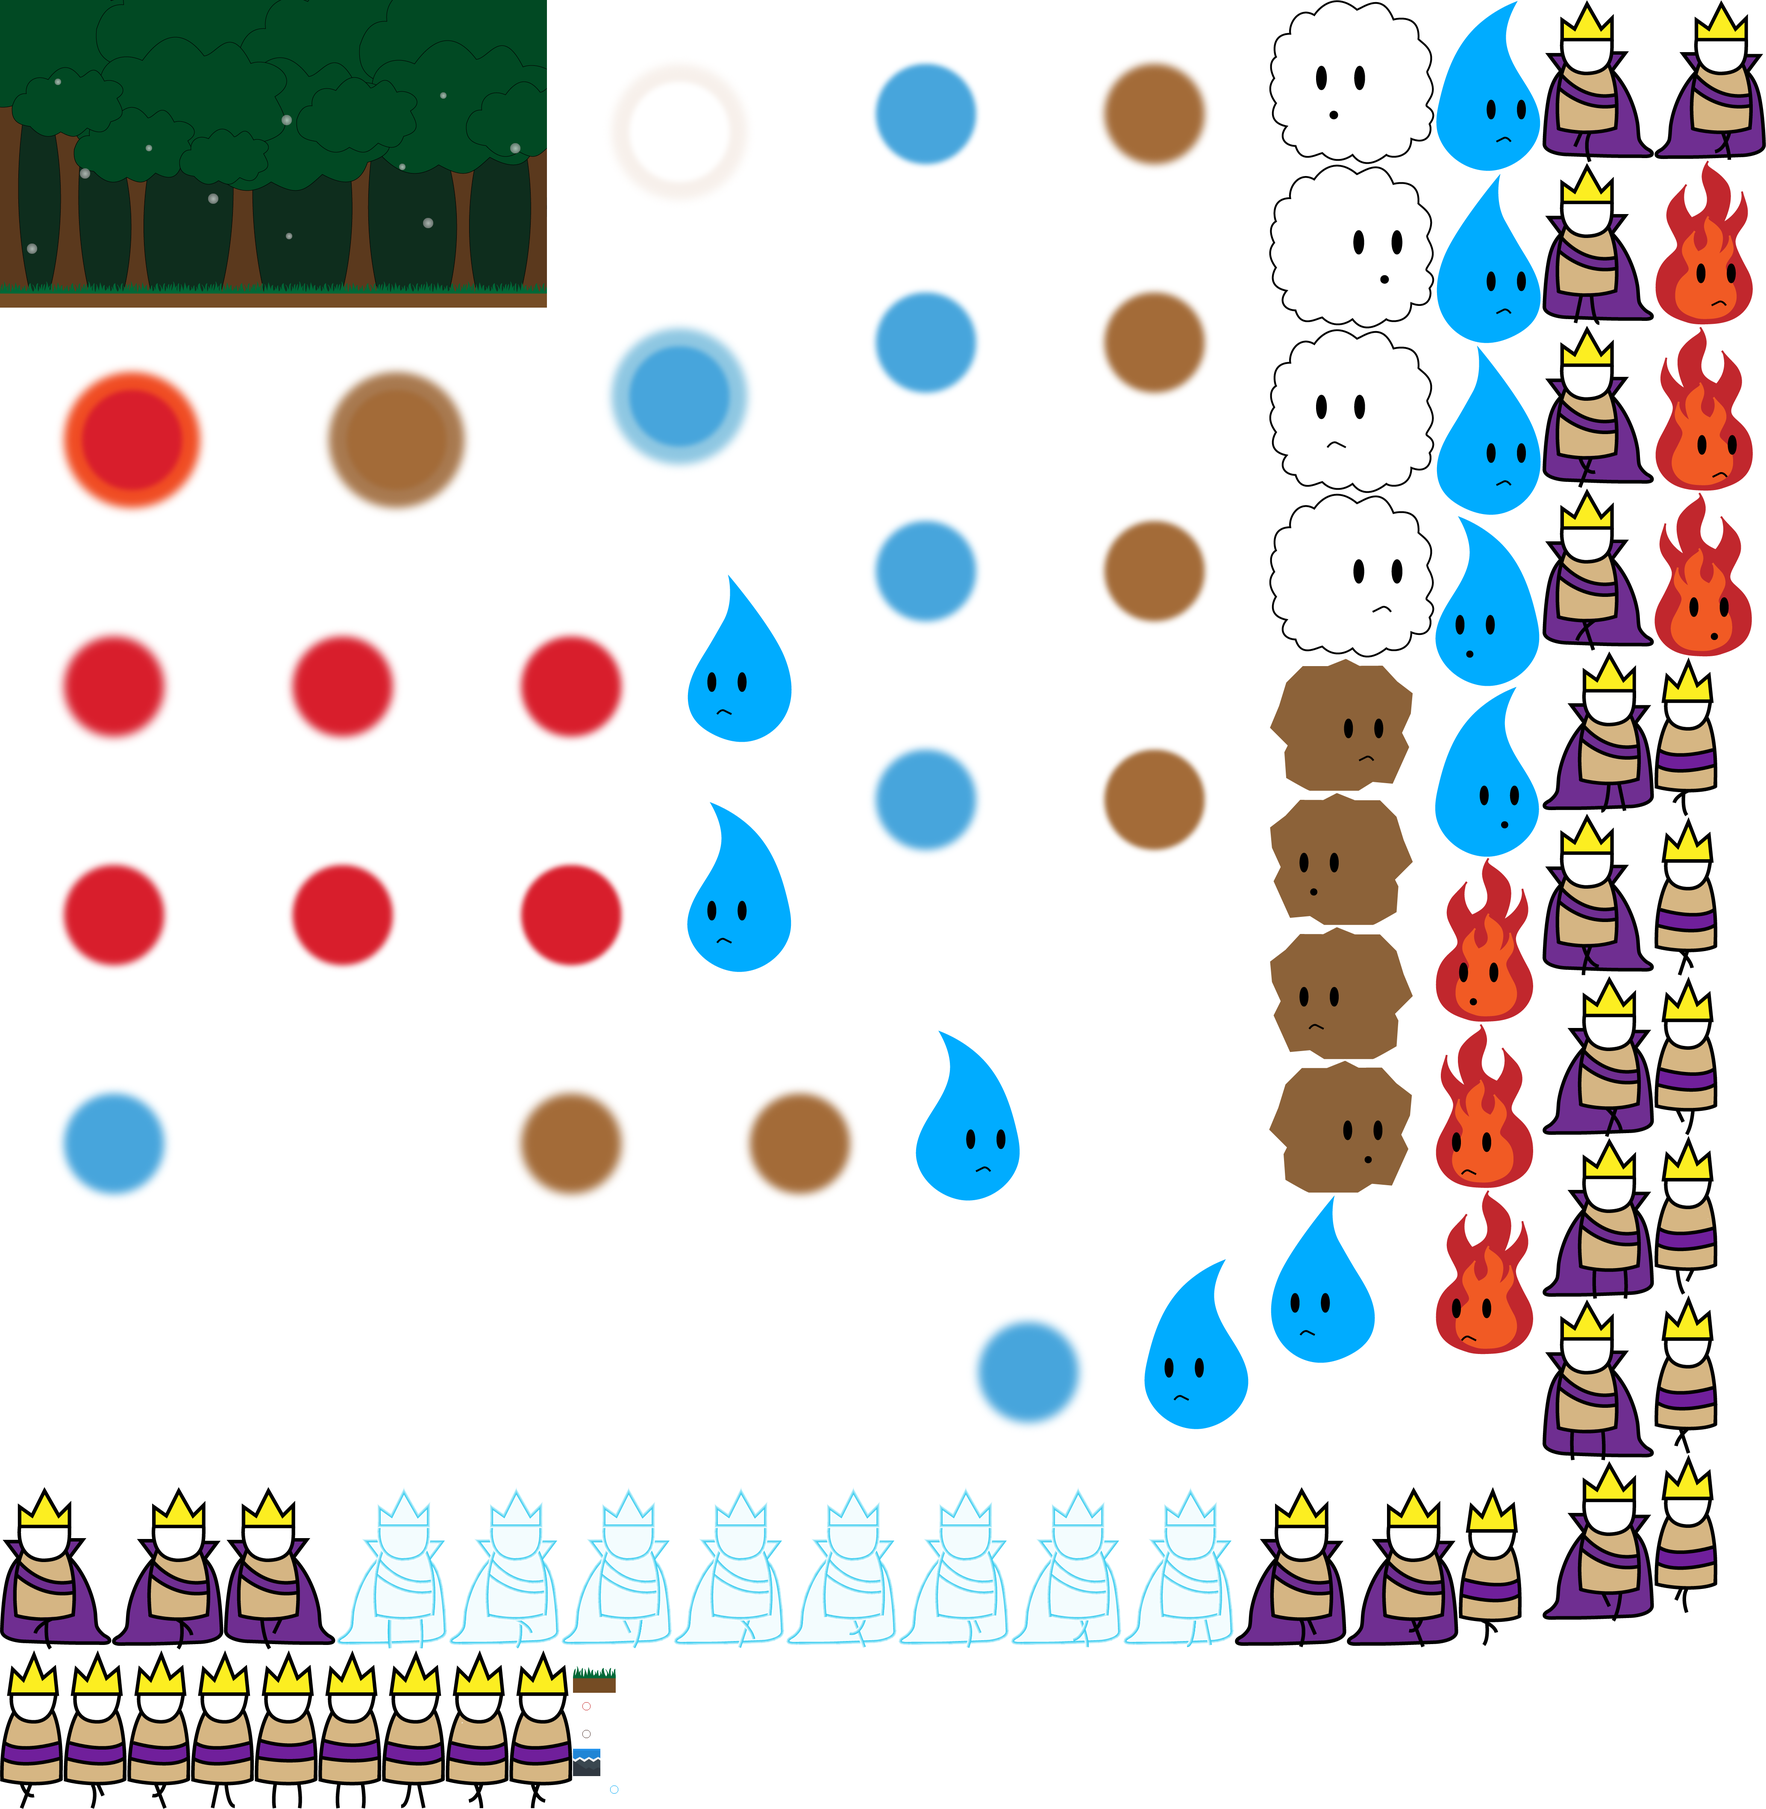
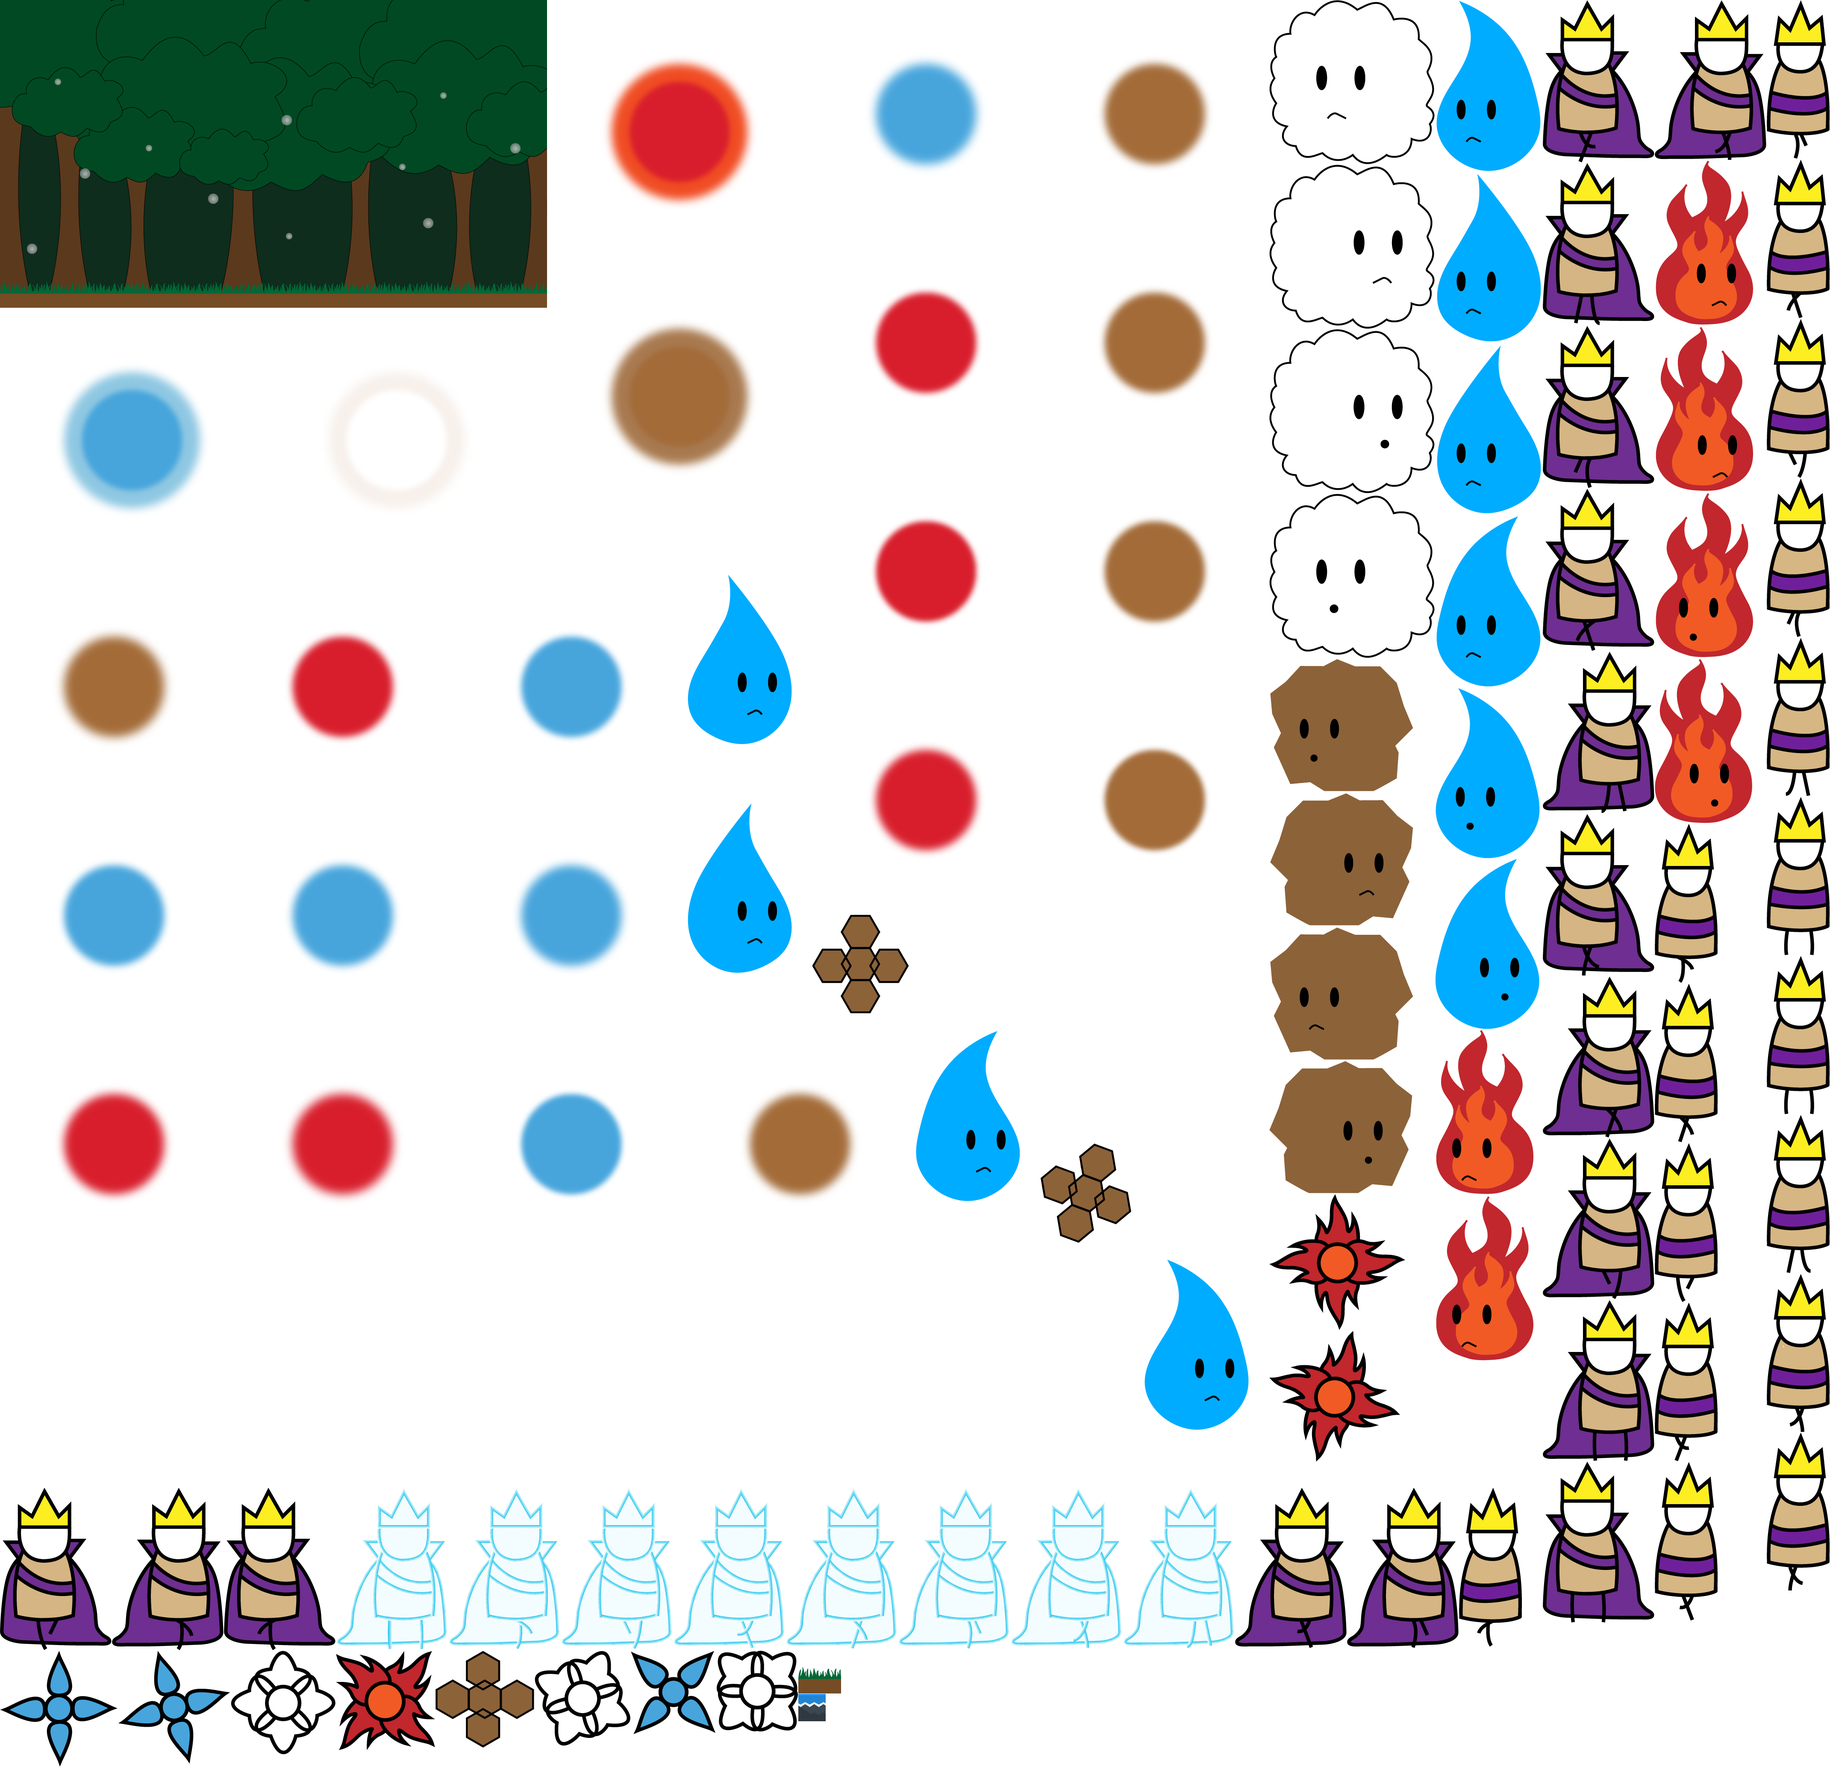
put in new projectiles and animations along with more bug fixes

diff --git a/game/js/prefabs/Player.js b/game/js/prefabs/Player.js
@@ -28,10 +28,10 @@ function Player (game, key, frame, xpos, ypos, scale)
 	this.body.collideWorldBounds = true; //this might need to change for state switching so player can walk off screen
 
 	this.bullets = game.add.group(); //add a bullets group and initialize it with the four elemental projectiles off screen somewhere
-	this.bullets.create(100000, 100000, 'atlas', 'wproj');
-	this.bullets.create(100000, 100000, 'atlas', 'eproj');
-	this.bullets.create(100000, 100000, 'atlas', 'fproj');
-	this.bullets.create(100000, 100000, 'atlas', 'aproj');
+	this.bullets.create(100000, 100000, 'atlas', 'wp1');
+	this.bullets.create(100000, 100000, 'atlas', 'ep1');
+	this.bullets.create(100000, 100000, 'atlas', 'fp1');
+	this.bullets.create(100000, 100000, 'atlas', 'ap1');
 	this.bullets.enableBody = true;
 
 	this.animations.add('moveRight', Phaser.Animation.generateFrameNames('playerr', 0, 7), 30, true); 
@@ -215,45 +215,45 @@ Player.prototype.update = function() //player's update function
 		if (this.facingRight == true) //if player is facing to the right
 		{
 			//add a water bullet to the bullets group that shoots to the right
-			var waterBullet = this.bullets.add(new RightProjectile(game, 'atlas', 'wproj', this.body.position.x + 50, this.body.position.y, 1, 'water'));
+			var waterBullet = this.bullets.add(new RightProjectile(game, 'atlas', 'wp1', this.body.position.x + 50, this.body.position.y, 0.15, 'water'));
 		}
 		else if (this.facingLeft == true) //if player is facing to the left 
 		{
 			//add a water bullet to the bullets group that shoots to the left
-			var waterBullet = this.bullets.add(new LeftProjectile(game, 'atlas', 'wproj', this.body.position.x + 50, this.body.position.y, 1, 'water'));
+			var waterBullet = this.bullets.add(new LeftProjectile(game, 'atlas', 'wp1', this.body.position.x + 50, this.body.position.y, 0.15, 'water'));
 		}
 	}
 	else if (attack == true && this.equippedElement[1] == true) //same logic for earth
 	{
 		if (this.facingRight == true)
 		{
-			var earthBullet = this.bullets.add(new RightProjectile(game, 'atlas', 'eproj', this.body.position.x + 50, this.body.position.y, 1, 'earth'));
+			var earthBullet = this.bullets.add(new RightProjectile(game, 'atlas', 'ep1', this.body.position.x + 50, this.body.position.y, 0.15, 'earth'));
 		}
 		else if (this.facingLeft == true)
 		{
-			var earthBullet = this.bullets.add(new LeftProjectile(game, 'atlas', 'eproj', this.body.position.x + 50, this.body.position.y, 1, 'earth'));
+			var earthBullet = this.bullets.add(new LeftProjectile(game, 'atlas', 'ep1', this.body.position.x + 50, this.body.position.y, 0.15, 'earth'));
 		}
 	}
 	else if (attack == true && this.equippedElement[2] == true) //same logic for fire
 	{
 		if (this.facingRight == true)
 		{
-			var fireBullet = this.bullets.add(new RightProjectile(game, 'atlas', 'fproj', this.body.position.x + 50, this.body.position.y, 1, 'fire'));
+			var fireBullet = this.bullets.add(new RightProjectile(game, 'atlas', 'fp1', this.body.position.x + 50, this.body.position.y, 0.15, 'fire'));
 		}
 		else if (this.facingLeft == true)
 		{
-			var fireBullet = this.bullets.add(new LeftProjectile(game, 'atlas', 'fproj', this.body.position.x + 50, this.body.position.y, 1, 'fire'));
+			var fireBullet = this.bullets.add(new LeftProjectile(game, 'atlas', 'fp1', this.body.position.x + 50, this.body.position.y, 0.15, 'fire'));
 		}
 	}
 	else if (attack == true && this.equippedElement[3] == true) //same logic for air
 	{
 		if (this.facingRight == true)
 		{
-			var airBullet = this.bullets.add(new RightProjectile(game, 'atlas', 'aproj', this.body.position.x + 50, this.body.position.y, 1, 'air'));
+			var airBullet = this.bullets.add(new RightProjectile(game, 'atlas', 'ap1', this.body.position.x + 50, this.body.position.y, 0.15, 'air'));
 		}
 		else if (this.facingLeft == true)
 		{
-			var airBullet = this.bullets.add(new LeftProjectile(game, 'atlas', 'aproj', this.body.position.x + 50, this.body. position.y, 1, 'air'));
+			var airBullet = this.bullets.add(new LeftProjectile(game, 'atlas', 'ap1', this.body.position.x + 50, this.body. position.y, 0.15, 'air'));
 		}
 	}
 

diff --git a/game/js/prefabs/Monster.js b/game/js/prefabs/Monster.js
@@ -21,10 +21,10 @@ function Monster (game, key, frame, xpos, ypos, scale, element, player, boundary
 	this.body.collideWorldBounds = true;
 
 	this.bullets = game.add.group(); //gives this monster a bullets group and initializes it with the four different projectiles off screen somewhere
-	this.bullets.create(100000, 100000, 'atlas', 'wproj');
-	this.bullets.create(100000, 100000, 'atlas', 'eproj');
-	this.bullets.create(100000, 100000, 'atlas', 'fproj');
-	this.bullets.create(100000, 100000, 'atlas', 'aproj');
+	this.bullets.create(100000, 100000, 'atlas', 'wp1');
+	this.bullets.create(100000, 100000, 'atlas', 'ep1');
+	this.bullets.create(100000, 100000, 'atlas', 'fp1');
+	this.bullets.create(100000, 100000, 'atlas', 'ap1');
 	this.bullets.enableBody = true;
 
 	this.animations.add('wMoveRight', Phaser.Animation.generateFrameNames('waterr', 1, 4), 12, true); 
@@ -54,12 +54,12 @@ function Monster (game, key, frame, xpos, ypos, scale, element, player, boundary
 			if (this.facingRight == true) //if facing to the right
 			{
 				//add a right projectile of type water to the bullets group
-				var waterBull = this.bullets.add(new RightProjectile(game, 'atlas', 'wproj', this.body.position.x + 50, this.body.position.y, 1, 'water'));
+				var waterBull = this.bullets.add(new RightProjectile(game, 'atlas', 'wp1', this.body.position.x + 50, this.body.position.y, 0.15, 'water'));
 			}
 			else if (this.facingLeft == true) //if facing to the left
 			{
 				//add a left projectile of type water to the bullets group
-				var waterBull = this.bullets.add(new LeftProjectile(game, 'atlas', 'wproj', this.body.position.x + 50, this.body.position.y, 1, 'water'));
+				var waterBull = this.bullets.add(new LeftProjectile(game, 'atlas', 'wp1', this.body.position.x + 50, this.body.position.y, 0.15, 'water'));
 			}
 		}
 		//rinse wash repeat for the rest of the else if's
@@ -67,33 +67,33 @@ function Monster (game, key, frame, xpos, ypos, scale, element, player, boundary
 		{
 			if (this.facingRight == true)
 			{
-				var earthBull = this.bullets.add(new RightProjectile(game, 'atlas', 'eproj', this.body.position.x + 50, this.body.position.y, 1, 'earth'));
+				var earthBull = this.bullets.add(new RightProjectile(game, 'atlas', 'ep1', this.body.position.x + 50, this.body.position.y, 0.15, 'earth'));
 			}
 			else if (this.facingLeft == true)
 			{
-				var earthBull = this.bullets.add(new LeftProjectile(game, 'atlas', 'eproj', this.body.position.x + 50, this.body.position.y, 1, 'earth'));
+				var earthBull = this.bullets.add(new LeftProjectile(game, 'atlas', 'ep1', this.body.position.x + 50, this.body.position.y, 0.15, 'earth'));
 			}
 		}
 		else if (this.element == 'fire')
 		{
 			if (this.facingRight == true)
 			{
-				var fireBull = this.bullets.add(new RightProjectile(game, 'atlas', 'fproj', this.body.position.x + 50, this.body.position.y, 1, 'fire'));
+				var fireBull = this.bullets.add(new RightProjectile(game, 'atlas', 'fp1', this.body.position.x + 50, this.body.position.y, 0.15, 'fire'));
 			}
 			else if (this.facingLeft == true)
 			{
-				var fireBull = this.bullets.add(new LeftProjectile(game, 'atlas', 'fproj', this.body.position.x + 50, this.body.position.y, 1, 'fire'));
+				var fireBull = this.bullets.add(new LeftProjectile(game, 'atlas', 'fp1', this.body.position.x + 50, this.body.position.y, 0.15, 'fire'));
 			}
 		}
 		else if (this.element == 'air')
 		{
 			if (this.facingRight == true)
 			{
-				var airBull = this.bullets.add(new RightProjectile(game, 'atlas', 'aproj', this.body.position.x + 50, this.body.position.y, 1, 'air'));
+				var airBull = this.bullets.add(new RightProjectile(game, 'atlas', 'ap1', this.body.position.x + 50, this.body.position.y, 0.15, 'air'));
 			}
 			else if (this.facingLeft == true)
 			{
-				var airBull = this.bullets.add(new LeftProjectile(game, 'atlas', 'aproj', this.body.position.x + 50, this.body. position.y, 1, 'air'));
+				var airBull = this.bullets.add(new LeftProjectile(game, 'atlas', 'ap1', this.body.position.x + 50, this.body. position.y, 0.15, 'air'));
 			}
 		}
 	}

diff --git a/game/js/prefabs/Boss.js b/game/js/prefabs/Boss.js
@@ -14,10 +14,10 @@ function Boss (game, key, frame, xpos, ypos, scale, player)
 	this.body.collideWorldBounds = true;
 
 	this.bullets = game.add.group(); //gives this monster a bullets group and initializes it with the four different projectiles off screen somewhere
-	this.bullets.create(100000, 100000, 'atlas', 'wproj');
-	this.bullets.create(100000, 100000, 'atlas', 'eproj');
-	this.bullets.create(100000, 100000, 'atlas', 'fproj');
-	this.bullets.create(100000, 100000, 'atlas', 'aproj');
+	this.bullets.create(100000, 100000, 'atlas', 'wp1');
+	this.bullets.create(100000, 100000, 'atlas', 'ep1');
+	this.bullets.create(100000, 100000, 'atlas', 'fp1');
+	this.bullets.create(100000, 100000, 'atlas', 'ap1');
 	this.bullets.enableBody = true;
 
 	this.body.gravity.y = 675;
@@ -32,45 +32,45 @@ function Boss (game, key, frame, xpos, ypos, scale, player)
 			if (this.facingRight == true) //if facing to the right
 			{
 				//add a right projectile of type water to the bullets group
-				var wBullet = this.bullets.add(new RightProjectile(game, 'atlas', 'wproj', this.body.position.x + 50, this.body.position.y, 1, 'water'));
+				var wBullet = this.bullets.add(new RightProjectile(game, 'atlas', 'wp1', this.body.position.x + 50, this.body.position.y, 0.15, 'water'));
 			}
 			else if (this.facingLeft == true) //if facing to the left
 			{
 				//add a left projectile of type water to the bullets group
-				var wBullet = this.bullets.add(new LeftProjectile(game, 'atlas', 'wproj', this.body.position.x + 50, this.body.position.y, 1, 'water'));
+				var wBullet = this.bullets.add(new LeftProjectile(game, 'atlas', 'wp1', this.body.position.x + 50, this.body.position.y, 0.15, 'water'));
 			}
 		}
 		else if (rng == 2)
 		{
 			if (this.facingRight == true)
 			{
-				var eBullet = this.bullets.add(new RightProjectile(game, 'atlas', 'eproj', this.body.position.x + 50, this.body.position.y, 1, 'earth'));
+				var eBullet = this.bullets.add(new RightProjectile(game, 'atlas', 'ep1', this.body.position.x + 50, this.body.position.y, 0.15, 'earth'));
 			}
 			else if (this.facingLeft == true)
 			{
-				var eBullet = this.bullets.add(new LeftProjectile(game, 'atlas', 'eproj', this.body.position.x + 50, this.body.position.y, 1, 'earth'));
+				var eBullet = this.bullets.add(new LeftProjectile(game, 'atlas', 'ep1', this.body.position.x + 50, this.body.position.y, 0.15, 'earth'));
 			}
 		}
 		else if (rng == 3)
 		{
 			if (this.facingRight == true)
 			{
-				var fBullet = this.bullets.add(new RightProjectile(game, 'atlas', 'fproj', this.body.position.x + 50, this.body.position.y, 1, 'fire'));
+				var fBullet = this.bullets.add(new RightProjectile(game, 'atlas', 'fp1', this.body.position.x + 50, this.body.position.y, 0.15, 'fire'));
 			}
 			else if (this.facingLeft == true)
 			{
-				var fBullet = this.bullets.add(new LeftProjectile(game, 'atlas', 'fproj', this.body.position.x + 50, this.body.position.y, 1, 'fire'));
+				var fBullet = this.bullets.add(new LeftProjectile(game, 'atlas', 'fp1', this.body.position.x + 50, this.body.position.y, 0.15, 'fire'));
 			}
 		}
 		else if (rng == 4)
 		{
 			if (this.facingRight == true)
 			{
-				var aBullet = this.bullets.add(new RightProjectile(game, 'atlas', 'aproj', this.body.position.x + 50, this.body.position.y, 1, 'air'));
+				var aBullet = this.bullets.add(new RightProjectile(game, 'atlas', 'ap1', this.body.position.x + 50, this.body.position.y, 0.15, 'air'));
 			}
 			else if (this.facingLeft == true)
 			{
-				var aBullet = this.bullets.add(new LeftProjectile(game, 'atlas', 'aproj', this.body.position.x + 50, this.body. position.y, 1, 'air'));
+				var aBullet = this.bullets.add(new LeftProjectile(game, 'atlas', 'ap1', this.body.position.x + 50, this.body. position.y, 0.15, 'air'));
 			}
 		}
 	}

diff --git a/game/js/prefabs/RightProjectile.js b/game/js/prefabs/RightProjectile.js
@@ -13,6 +13,13 @@ function RightProjectile (game, key, frame, xpos, ypos, scale, element)
 	this.body.velocity.x = 400; //speed at which the projectile moves
 	
 	this.outOfBoundsKill = true; //kill once reaches out of bounds
+
+	this.animations.add('wRotate', Phaser.Animation.generateFrameNames('wp', 1, 3), 25, true);
+	//this.animations.add('wRotate', ['atlas', 'wp1', 'atlas', 'wp3'], 15, true);
+	this.animations.add('eRotate', Phaser.Animation.generateFrameNames('ep', 1, 3), 25, true);
+	//this.animations.add('eRotate', ['atlas', 'ep1', 'atlas', 'ep3'], 15, true);
+	this.animations.add('fRotate', Phaser.Animation.generateFrameNames('fp', 1, 3), 25, true);
+	this.animations.add('aRotate', Phaser.Animation.generateFrameNames('ap', 1, 3), 25, true);
 }
 
 RightProjectile.prototype = Object.create(Phaser.Sprite.prototype);
@@ -20,5 +27,20 @@ RightProjectile.prototype.constructor = RightProjectile;
 
 RightProjectile.prototype.update = function()
 {
-
+	if (this.element == 'water')
+	{
+		this.animations.play('wRotate');
+	}
+	else if (this.element == 'earth')
+	{
+		this.animations.play('eRotate');
+	}
+	else if (this.element == 'fire')
+	{
+		this.animations.play('fRotate');
+	}
+	else if (this.element == 'air')
+	{
+		this.animations.play('aRotate');
+	}
 }

diff --git a/game/js/prefabs/LeftProjectile.js b/game/js/prefabs/LeftProjectile.js
@@ -13,6 +13,12 @@ function LeftProjectile (game, key, frame, xpos, ypos, scale, element)
 	this.body.velocity.x = -400; //speed at which the projectile moves
 	
 	this.outOfBoundsKill = true; //kill once reaches out of bounds
+
+	
+	this.animations.add('wRotate', ['atlas', 'wp3', 'atlas', 'wp2', 'atlas', 'wp1'], 25, true);
+	this.animations.add('eRotate', ['atlas', 'ep3', 'atlas', 'ep2', 'atlas', 'ep1'], 25, true);
+	this.animations.add('fRotate', ['atlas', 'fp3', 'atlas', 'fp2', 'atlas', 'fp1'], 25, true);
+	this.animations.add('aRotate', ['atlas', 'ap3', 'atlas', 'ap2', 'atlas', 'ap1'], 25, true);
 }
 
 LeftProjectile.prototype = Object.create(Phaser.Sprite.prototype);
@@ -20,5 +26,20 @@ LeftProjectile.prototype.constructor = LeftProjectile;
 
 LeftProjectile.prototype.update = function()
 {
-
+	if (this.element == 'water')
+	{
+		this.animations.play('wRotate');
+	}
+	else if (this.element == 'earth')
+	{
+		this.animations.play('eRotate');
+	}
+	else if (this.element == 'fire')
+	{
+		this.animations.play('fRotate');
+	}
+	else if (this.element == 'air')
+	{
+		this.animations.play('aRotate');
+	}
 }

diff --git a/game/js/main.js b/game/js/main.js
@@ -662,8 +662,9 @@ GamePlay.prototype = {
 				if (monsters.children[i].cleared == false)
 				{
 					unlock = false;
+					break;
 				}
-				else 
+				else
 				{
 					unlock = true;
 				}
@@ -676,6 +677,7 @@ GamePlay.prototype = {
 				if (monsters.children[i].cleared == false)
 				{
 					unlock = false;
+					break;
 				}
 				else 
 				{
